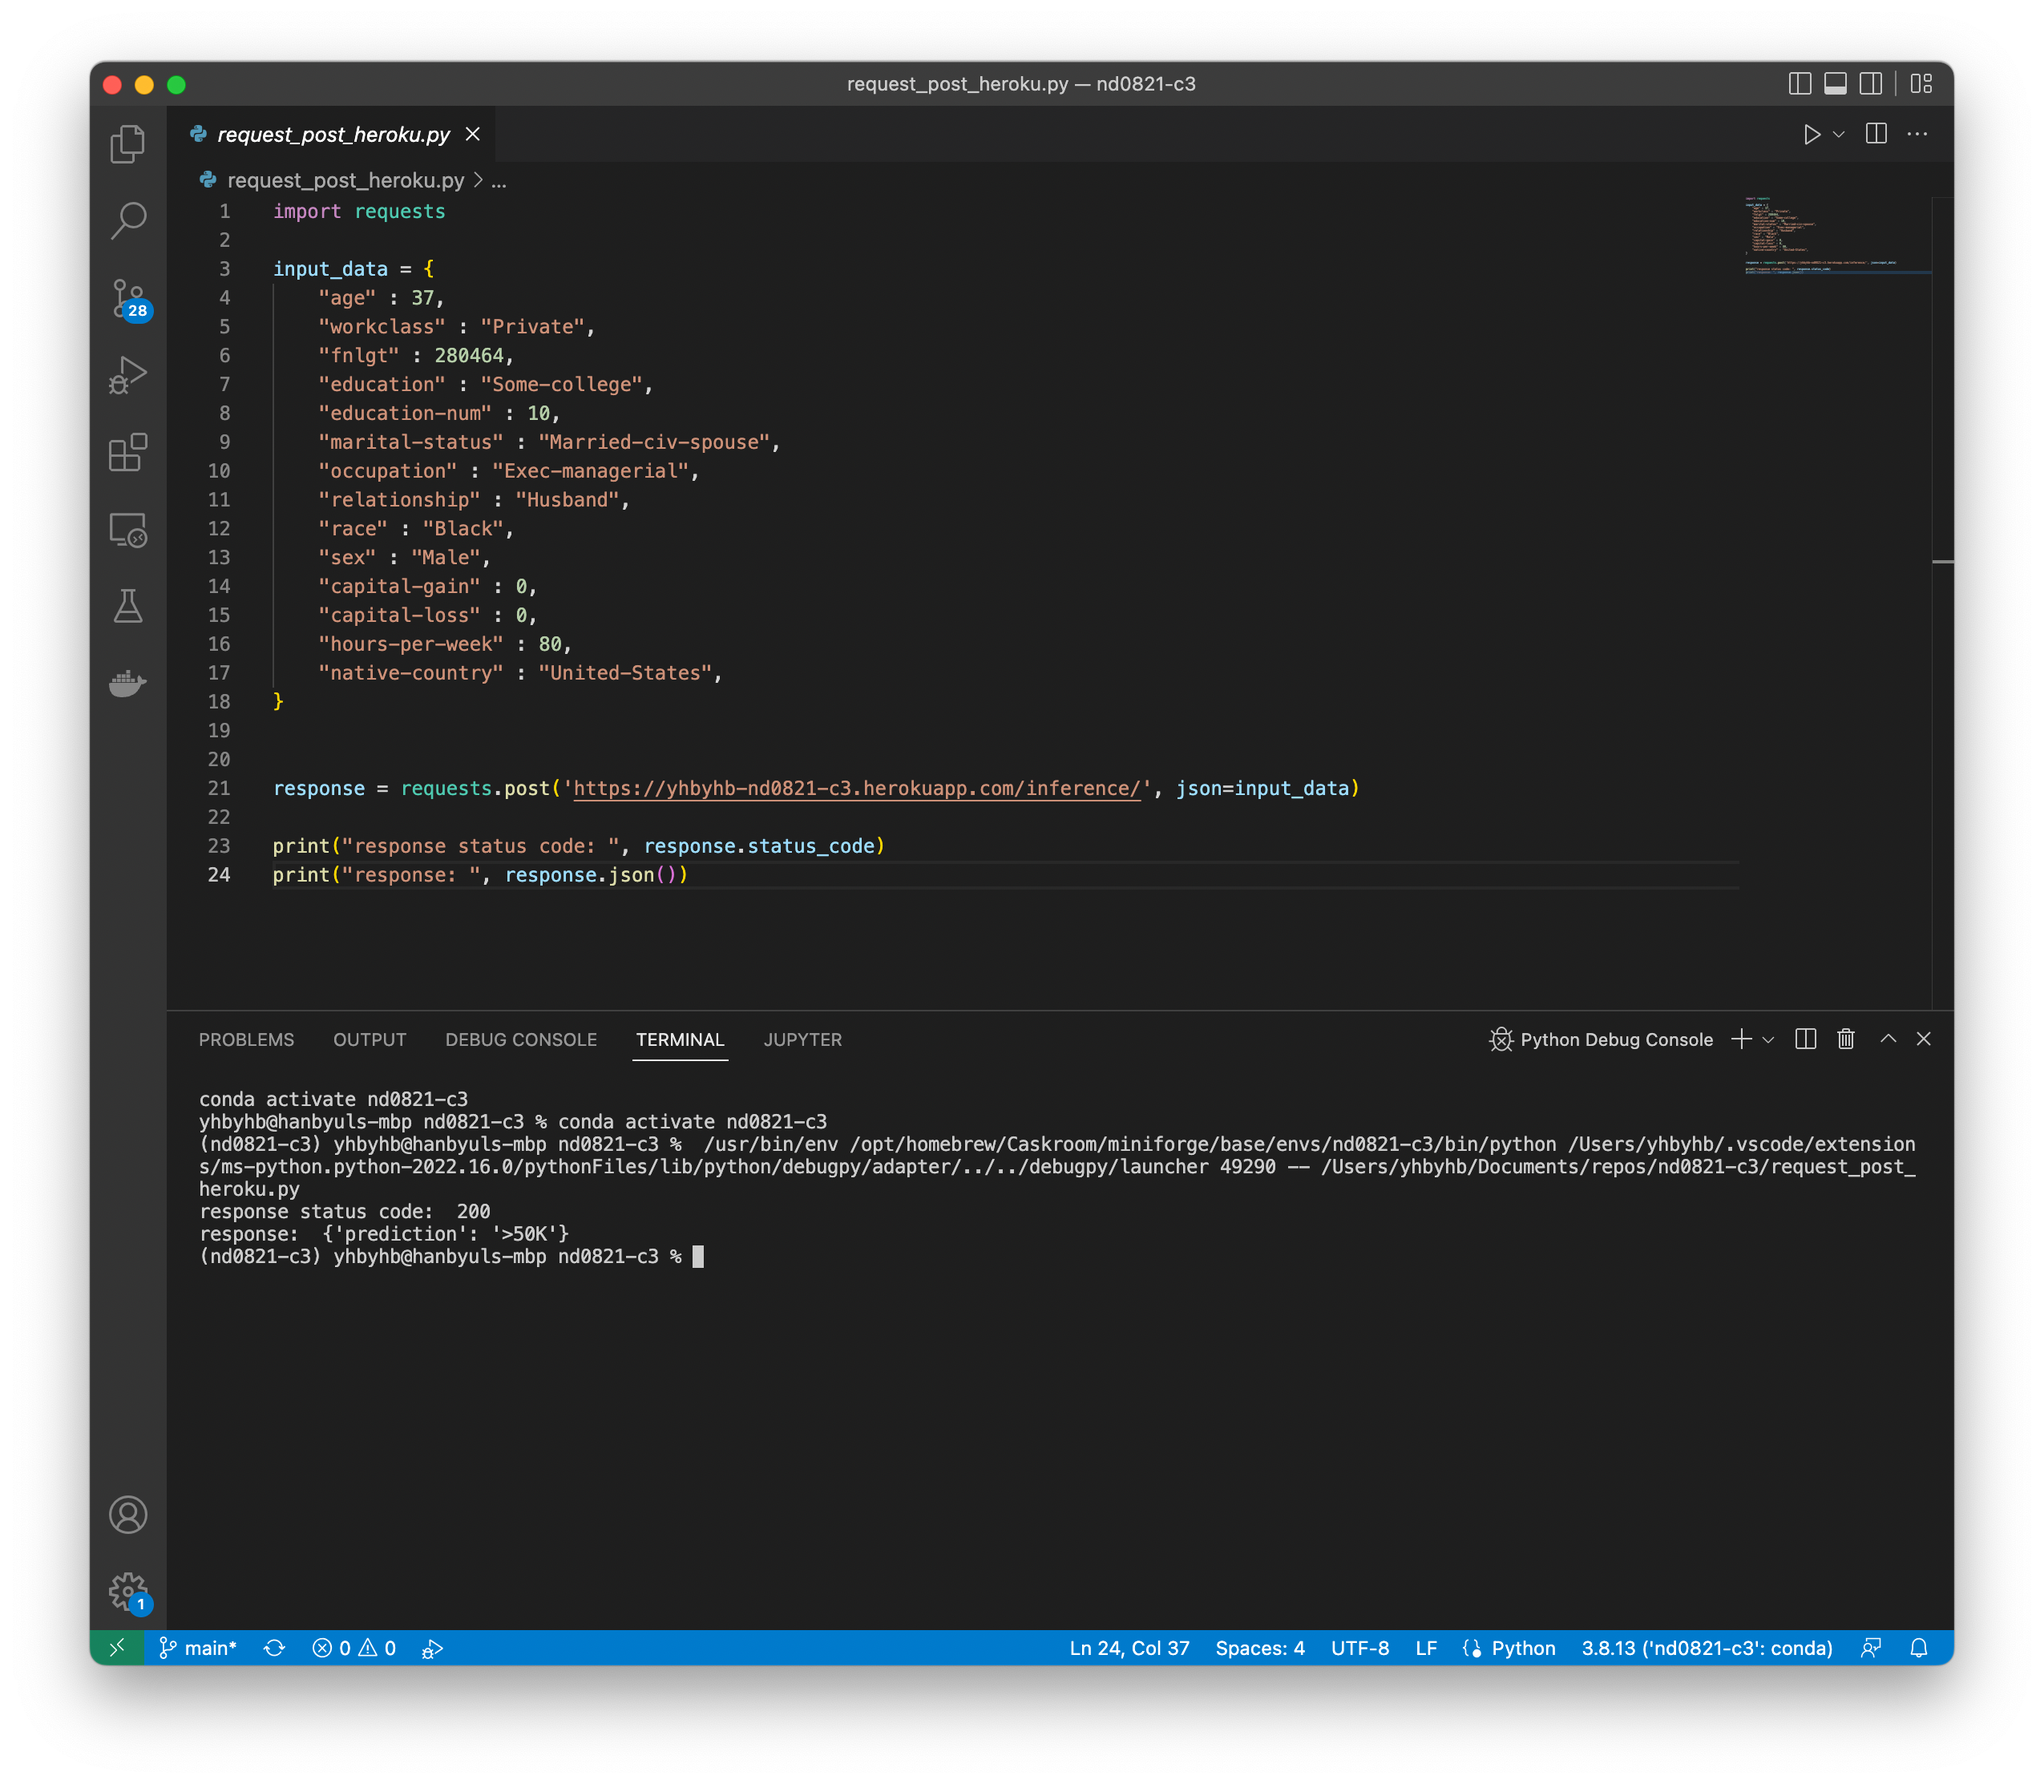
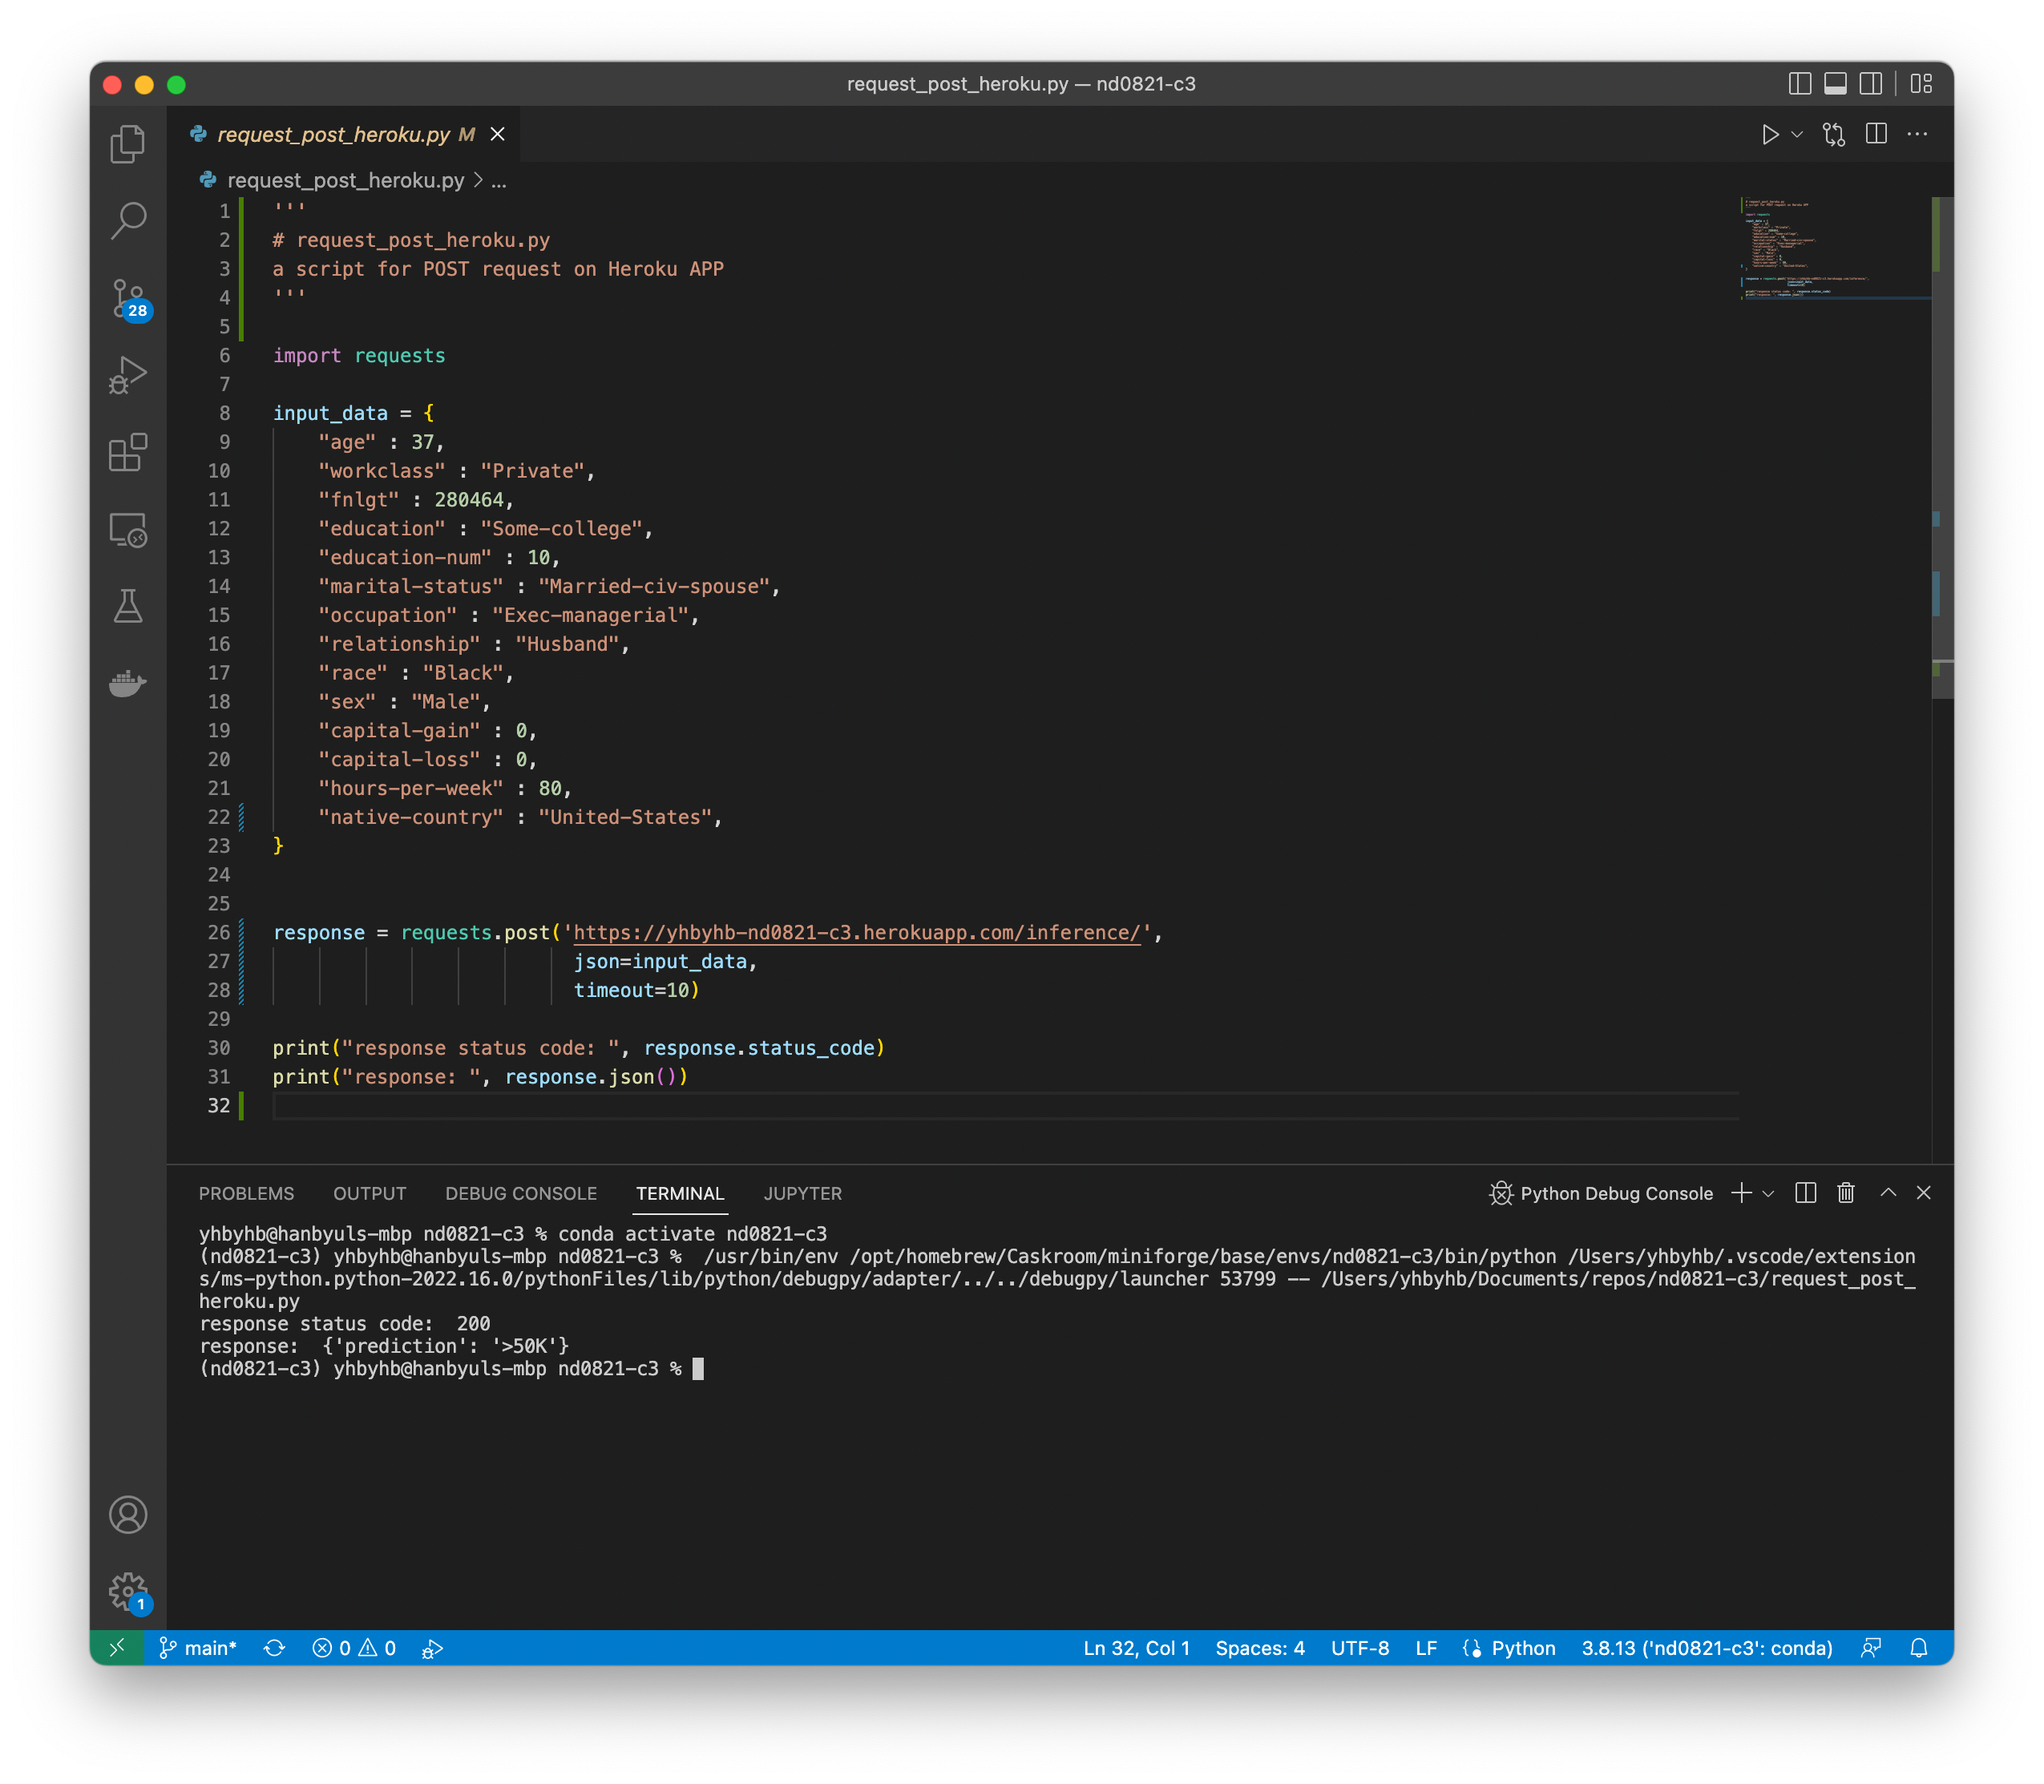
refactoring

diff --git a/starter/ml/test_model.py b/starter/ml/test_model.py
@@ -1,9 +1,15 @@
+'''
+# test_model.py
+unit tests for model.py
+
+'''
+
 import os
 import logging
-import numpy as np
-import pandas as pd
 import pathlib
 import pytest
+
+import pandas as pd
 
 from sklearn.model_selection import train_test_split
 from starter.ml.data import process_data
@@ -17,15 +23,17 @@ logger = logging.getLogger()
 @pytest.fixture
 def data():
     """
+    fixture dataFrame from a csv file
     """
     cur_path = pathlib.Path(__file__).parent.resolve()
-    df = pd.read_csv(os.path.join(cur_path, "../../data/census_cleaned.csv"))
+    dataframe = pd.read_csv(os.path.join(cur_path, "../../data/census_cleaned.csv"))
 
-    return df
+    return dataframe
 
 @pytest.fixture
 def train_test(data):
     """
+    fixture for train and test data set from dataFrame
     """
     train, test = train_test_split(data, test_size=0.20, random_state=23)
 
@@ -33,6 +41,10 @@ def train_test(data):
 
 @pytest.fixture
 def train_test_data(train_test):
+    '''
+    fixture for segregated dataset.
+    '''
+
     train, test = train_test
 
     cat_features = [
@@ -51,19 +63,25 @@ def train_test_data(train_test):
     )
 
     X_test, y_test, _, _ = process_data(
-        test, categorical_features=cat_features, label="salary", training=False, encoder=encoder, lb=lb
+        test, categorical_features=cat_features,
+        label="salary", training=False, encoder=encoder, lb=lb
     )
 
     return X_train, y_train, X_test, y_test
 
 @pytest.fixture
 def model(train_test_data):
+    '''
+    fixture for a trained model
+    '''
+
     X_train, y_train, _, _ = train_test_data
     model = train_model(X_train, y_train)
     return model
 
 def test_train_model(model):
     """
+    test for train_model()
     """
     try:
         assert hasattr(model, 'fit')
@@ -75,7 +93,10 @@ def test_train_model(model):
 
 @pytest.fixture
 def preds(train_test_data, model):
-    X_train, y_train, X_test, y_test = train_test_data
+    '''
+    fixture for inference
+    '''
+    _, _, X_test, _ = train_test_data
 
     # Inference
     preds = inference(model, X_test)
@@ -83,10 +104,9 @@ def preds(train_test_data, model):
     return preds
 
 def test_inference(train_test_data, preds):
-    """
-    """
-    # Proces the test data with the process_data function.
-
+    '''
+    test for inference()
+    '''
     _, _, _, y_test = train_test_data
 
     try:
@@ -99,9 +119,9 @@ def test_inference(train_test_data, preds):
 
 
 def test_compute_model_metrics(train_test_data, preds):
-    """
-    """
-    # Proces the test data with the process_data function.
+    '''
+    test for compute_model_metrics()
+    '''
     _, _, _, y_test = train_test_data
 
     precision, recall, fbeta = compute_model_metrics(y_test, preds)
@@ -109,7 +129,7 @@ def test_compute_model_metrics(train_test_data, preds):
     #precisio : 0.7600896860986547, recall : 0.6223990208078335, fbeta : 0.6843876177658142
     try:
         assert 0.74 < precision < 0.78
-        assert 0.61 < recall < 0.64  
+        assert 0.61 < recall < 0.64
         assert 0.67 < fbeta  < 0.70
 
         logging.info("Testing compute_model_metrics() : succeeded")

diff --git a/main.py b/main.py
@@ -1,8 +1,14 @@
+'''
+# main.py
+main app using FastAPI
+
+'''
 # main.py
 import os
-import pandas as pd
 import pathlib
 import pickle
+
+import pandas as pd
 
 from fastapi import FastAPI
 from fastapi.encoders import jsonable_encoder
@@ -21,7 +27,10 @@ if "DYNO" in os.environ and os.path.isdir(".dvc"):
 app = FastAPI()
 
 class DataModel(BaseModel):
-    age: int 
+    '''
+    DataModel for POST input data
+    '''
+    age: int
     workclass: str
     fnlgt: int
     education: str
@@ -37,6 +46,9 @@ class DataModel(BaseModel):
     native_country: str = Field(alias="native-country")
 
     class Config:
+        '''
+        Config for an example DataModel
+        '''
         allow_population_by_field_name = True
         schema_extra = {
             "example": {
@@ -59,13 +71,17 @@ class DataModel(BaseModel):
 
 @app.get("/")
 async def get_welcome():
+    '''
+    GET returns a welcome message
+    '''
     return {"welcome": "Welcome!"}
 
 
 @app.post("/inference/")
 async def predict(input_data: DataModel):
-    """
-    """
+    '''
+    POST returns predicted result. ">50k" or "<=50K"
+    '''
     # convert data to DataFrame
     data = jsonable_encoder(input_data)
     df = pd.DataFrame(data=data.values(), index=data.keys()).T
@@ -82,17 +98,17 @@ async def predict(input_data: DataModel):
 
     # load model
     cur_path = pathlib.Path(__file__).parent.resolve()
-    model_path = os.path.join(cur_path, "model");
+    model_path = os.path.join(cur_path, "model")
 
     model_dir = 'model'
     model_path = os.path.join(os.path.abspath(os.curdir), model_dir)
 
-    with open(os.path.join(model_path, "model.pkl"), 'rb') as f:
-        model = pickle.load(f)
-    with open(os.path.join(model_path, "model_encoder.pkl"), 'rb') as f:
-        encoder = pickle.load(f)
-    with open(os.path.join(model_path, "model_lb.pkl"), 'rb') as f:
-        lb = pickle.load(f)
+    with open(os.path.join(model_path, "model.pkl"), 'rb') as file:
+        model = pickle.load(file)
+    with open(os.path.join(model_path, "model_encoder.pkl"), 'rb') as file:
+        encoder = pickle.load(file)
+    with open(os.path.join(model_path, "model_lb.pkl"), 'rb') as file:
+        lb = pickle.load(file)
 
     X, _, _, _ = process_data(
         df,
@@ -105,4 +121,3 @@ async def predict(input_data: DataModel):
     prediction = {"prediction": lb.inverse_transform(preds)[0]}
 
     return prediction
-

diff --git a/test_main.py b/test_main.py
@@ -1,19 +1,29 @@
+'''
 # test_main.py
+Unit test for main.py
 
-import json
-from main import app
+'''
+
 from fastapi.testclient import TestClient
+
+from main import app
 
 
 client = TestClient(app)
 
 
 def test_get_welcome():
-    r = client.get("/")
-    assert r.status_code == 200
-    assert r.json() == {"welcome": "Welcome!"}
+    '''
+    test GET
+    '''
+    response = client.get("/")
+    assert response.status_code == 200
+    assert response.json() == {"welcome": "Welcome!"}
 
 def test_inference_above50k():
+    '''
+    test POST and response is ">50K"
+    '''
     input_data = {
         "age" : 37,
         "workclass" : "Private",
@@ -28,15 +38,20 @@ def test_inference_above50k():
         "capital-gain" : 0,
         "capital-loss" : 0,
         "hours-per-week" : 80,
-        "native-country" : "United-States",                
+        "native-country" : "United-States",
     }
 
     response_post = client.post("/inference/", json=input_data)
     print(response_post.json)
-    assert response_post.status_code == 200, "Response code is not successful. {}".format(response_post.json())
-    assert response_post.json() == {"prediction":'>50K'}, "Wrong prediction. expectation '>50K'"
+    assert response_post.status_code == 200, \
+        f"Response code is not successful. {response_post.json()}"
+    assert response_post.json() == {"prediction":'>50K'}, \
+        "Wrong prediction. expectation '>50K'"
 
 def test_inference_under50k():
+    '''
+    test POST and response is "<=50K"
+    '''
     input_data = {
         "age": 53,
         "workclass": "Private",
@@ -51,12 +66,12 @@ def test_inference_under50k():
         "capital-gain": 0,
         "capital-loss": 0,
         "hours-per-week": 40,
-        "native-country": "United-States",              
+        "native-country": "United-States",
     }
 
     response_post = client.post("/inference/", json=input_data)
     print(response_post.json)
-    assert response_post.status_code == 200, "Response code is not successful. {}".format(response_post.json())
-    assert response_post.json() == {"prediction":'<=50K'}, "Wrong prediction. expectation '<=50K'"
-
-        
+    assert response_post.status_code == 200, \
+        f"Response code is not successful. {response_post.json()}"
+    assert response_post.json() == {"prediction":'<=50K'}, \
+        "Wrong prediction. expectation '<=50K'"

diff --git a/starter/train_model.py b/starter/train_model.py
@@ -1,12 +1,19 @@
-# Script to train machine learning model.
+'''
+# train_model.py
+Script to train machine learning model.
+This also includes a sample script for sliced model performance.
+
+'''
+
 import csv
-import numpy as np
 import os
-import pandas as pd
 import pathlib
 import pickle
-import yaml
+
+import numpy as np
+import pandas as pd
 from sklearn.model_selection import train_test_split
+
 from ml.data import process_data
 from ml.model import train_model, compute_model_metrics, inference, compute_sliced_performace
 
@@ -43,7 +50,7 @@ X_test, y_test, _, _ = process_data(
 # Train and save a model.
 model = train_model(X_train, y_train)
 
-model_path = os.path.join(cur_path, "../model");
+model_path = os.path.join(cur_path, "../model")
 
 with open(os.path.join(model_path, "model.pkl"), 'wb') as f:
     pickle.dump(model, f)
@@ -52,7 +59,7 @@ with open(os.path.join(model_path, "model_encoder.pkl"), 'wb') as f:
     pickle.dump(encoder, f)
 
 with open(os.path.join(model_path, "model_lb.pkl"), 'wb') as f:
-    pickle.dump(lb, f)        
+    pickle.dump(lb, f)
 
 # Inference and compute metrics
 preds = inference(model, X_test)

diff --git a/request_post_heroku.py b/request_post_heroku.py
@@ -1,3 +1,8 @@
+'''
+# request_post_heroku.py
+a script for POST request on Heroku APP
+'''
+
 import requests
 
 input_data = {
@@ -14,11 +19,13 @@ input_data = {
     "capital-gain" : 0,
     "capital-loss" : 0,
     "hours-per-week" : 80,
-    "native-country" : "United-States",                
+    "native-country" : "United-States",
 }
 
 
-response = requests.post('https://yhbyhb-nd0821-c3.herokuapp.com/inference/', json=input_data)
+response = requests.post('https://yhbyhb-nd0821-c3.herokuapp.com/inference/', 
+                          json=input_data,
+                          timeout=10)
 
 print("response status code: ", response.status_code)
 print("response: ", response.json())

diff --git a/starter/ml/model.py b/starter/ml/model.py
@@ -66,6 +66,12 @@ def inference(model, X):
 
 def compute_sliced_performace(df, model, encoder, lb, cat_features):
     """
+    compute slicing data model performance
+
+    Returns
+    -------
+    sliced_perf : List of dictionary includes performance metric and feature that using data slice
+
     """
     sliced_perf = []
     for feature in cat_features:
